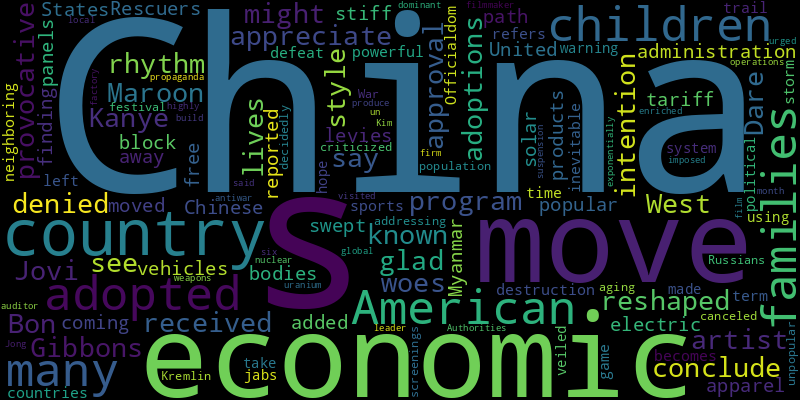
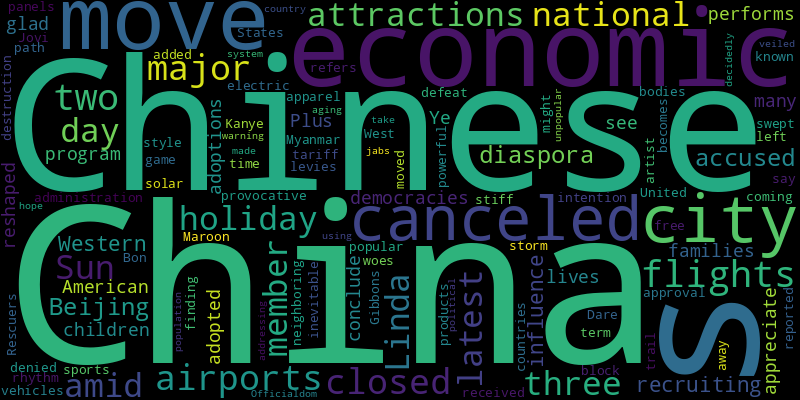
chore(bot): 🤖 auto commit

diff --git a/README.md b/README.md
@@ -2,32 +2,35 @@
 Auto RSS New York Times and Generate Word Cloud
 
 ## New York Times Global News
+* The visit by the adviser, Amos Hochstein, comes as cross-border clashes between Israel’s military and the powerful Lebanese militia have intensified.
+* Linda Sun is just the latest member of the Chinese diaspora whom Beijing is accused of recruiting to influence Western democracies.
+* The city canceled all flights at its two airports and closed major attractions, amid a three-day national holiday.
 * Hamas and the Houthis have opened offices in Baghdad, reflecting the two groups’ evolving relationship with Iraq as Tehran works to build a regional power bloc.
-* The United States and its allies are once again considering expanding the capabilities they provide to Ukraine in its fight against Russia’s invasion.
 * Europe’s public transit captains showed off their skills at an annual championship. “We have been practicing,” a Dutch competitor said. “But the other teams have also been practicing, too.”
+* Flooding caused by heavy rains has left more than 1,000 people dead and hundreds of thousands of homes destroyed.
 * The provocative artist once known as Kanye West has received approval that was denied to Maroon 5 and Bon Jovi. China’s economic woes might be why.
-* Derna is quickly being reconstructed after a flood that killed thousands. But questions linger about the process, and residents say new buildings cannot erase their trauma.
-* Soldiers and military analysts say that Ukraine is largely holding onto land it seized in the Kursk region, even as Moscow has begun a counterattack.
-* Tens of thousands cheered, clapped, danced and sang to celebrate French athletes and to relive, one last time, the Games that uplifted a nation.
-* A vote in Montreal is seen as a referendum on Canada’s prime minister, who has brushed aside calls to step down as party members fear a wipeout in the next general election.
-* Abbé Pierre campaigned for decades against homelessness and poverty. Revelations about his treatment of women have destroyed his image as a symbol of virtue in France.
-* Mickey, a homegrown food-packaging company, is famous for facing down Disney in Paraguay’s Supreme Court. As the family business turns 90, why is it still so popular?
+* An inquiry into the deaths of three Israeli hostages determined that they probably died as a result of a military airstrike targeting a Hamas commander.
+* Costa Rica’s lush rainforests, which blanket a quarter of the country, are being infiltrated by cartels on a quest to find new trafficking routes to evade the authorities.
+* Going forward, Mexican voters will now elect judges at every level, dramatically restructuring the third branch of government.
 
 ![Global](./global.png)
 ## New York Times United States News
-* Businesses needed workers, and Haitians, many already authorized to work, heard living costs were low. But the newcomers have strained resources, and that has fueled  tension.
-* Tension hangs over the city after a week of closings and lockdowns, and the strain of recent months has led some Haitian immigrants to consider moving to bigger cities.
-* Firefighters are making progress against the Bridge, Line and Airport fires to prevent more destruction, but for some, the damage is done.
+* Secret Service agents fired on a man who had a rifle and was hiding in bushes around a Trump golf club in Florida, officials said. Former President Donald J. Trump was unhurt.
+* Voters said the vice president talked about a sweeping vision to fix the country’s most stubborn problems. But they wanted the fine print.
+* A judge ruled that the State Constitution protected a woman’s right to abortion until the fetus was viable. The state’s attorney general said he would appeal.
 * Preliminary estimates said a 4.7-magnitude temblor was centered near Malibu. The authorities were determining whether there was any significant damage.
-* The claim that Aurora, Colo., has been overrun by gun-toting migrants stemmed from the city’s fight with a landlord. Now it is central to one of former President Donald J. Trump’s anti-immigrant campaign promises.
-* A Silicon Valley software engineer bought a modest one-bedroom condo in San Francisco once owned by the vice president. He rents it out.
-* An election skeptic challenged hundreds of voter registrations, including one for a voting rights activist. A county official is dealing with the mess.
-* Representative Gabe Vasquez, a Democrat in a border district, is under attack by his Republican opponent on immigration policy. Can a pro-abortion access message help him prevail?
-* The SpaceX capsule, whose crew was led by the billionaire Jared Isaacman, splashed down near the Gulf of Mexico early Sunday.
-* Behind the scenes, the chief justice molded three momentous Jan. 6 and election cases that helped determine the former president’s fate.
+* Mr. Jackson, alongside Michael and his other brothers, provided a soundtrack for a generation of young listeners in the 1970s.
+* With Vice President Kamala Harris at the top of the ticket and Senate seats open, Democrats could for the first time send two Black women to the chamber.
+* The deep-sea disaster killed all five people on board in 2023. The Coast Guard is set to hold its first public hearing on Monday to explore what led to the accident.
+* Investigations have singled out Pete Arredondo for the delayed police response to a 2022 school shooting in Texas. He is expected to appear in court for the first time on Monday.
+* As the idea of incorporating the Bible into classrooms gains traction, concerns about the mission of public schools — and differences across the faith — have led even some conservative Christians to push back.
+* Ryan Wesley Routh wanted to fly Afghan veterans to fight against Russia in Ukraine, an endeavor he seemed ill prepared to orchestrate.
 
 ![US](./usnews.png)
 ## New York Times Asia News
+* The city canceled all flights at its two airports and closed major attractions, amid a three-day national holiday.
+* Linda Sun is just the latest member of the Chinese diaspora whom Beijing is accused of recruiting to influence Western democracies.
+* Plus, Ye performs in China.
 * More than 80,000 children from China were adopted by American families. While many appreciate how the adoptions reshaped their own lives, they are also glad to see the program conclude.
 * The provocative artist once known as Kanye West has received approval that was denied to Maroon 5 and Bon Jovi. China’s economic woes might be why.
 * Gibbons move with rhythm and intention. Dare we say style?
@@ -35,8 +38,5 @@ Auto RSS New York Times and Generate Word Cloud
 * Rescuers in Myanmar reported finding bodies swept away by the powerful storm, which left a trail of destruction there and in neighboring countries.
 * The sports term refers to a time during a game when defeat becomes inevitable. Officialdom is warning against using it to take veiled jabs at the country’s political and economic system.
 * The move, made in the hope of addressing an aging population, was decidedly unpopular.
-* The festival canceled the screenings of “Russians at War,” which has been criticized as Kremlin propaganda. The filmmaker has said it is an antiwar film.
-* Authorities also imposed a six-month suspension on the local operations of the global firm, which was once a dominant auditor in China.
-* Its leader, Kim Jong-un, visited the factory and urged his country to produce more highly enriched uranium to build “exponentially” more nuclear weapons.
 
 ![Asian](./asian.png)

diff --git a/archive/2024-09-15.md b/archive/2024-09-15.md
@@ -1,0 +1,42 @@
+# NewsArchive
+Auto RSS New York Times and Generate Word Cloud
+
+## New York Times Global News
+* Hamas and the Houthis have opened offices in Baghdad, reflecting the two groups’ evolving relationship with Iraq as Tehran works to build a regional power bloc.
+* The United States and its allies are once again considering expanding the capabilities they provide to Ukraine in its fight against Russia’s invasion.
+* Europe’s public transit captains showed off their skills at an annual championship. “We have been practicing,” a Dutch competitor said. “But the other teams have also been practicing, too.”
+* The provocative artist once known as Kanye West has received approval that was denied to Maroon 5 and Bon Jovi. China’s economic woes might be why.
+* Derna is quickly being reconstructed after a flood that killed thousands. But questions linger about the process, and residents say new buildings cannot erase their trauma.
+* Soldiers and military analysts say that Ukraine is largely holding onto land it seized in the Kursk region, even as Moscow has begun a counterattack.
+* Tens of thousands cheered, clapped, danced and sang to celebrate French athletes and to relive, one last time, the Games that uplifted a nation.
+* A vote in Montreal is seen as a referendum on Canada’s prime minister, who has brushed aside calls to step down as party members fear a wipeout in the next general election.
+* Abbé Pierre campaigned for decades against homelessness and poverty. Revelations about his treatment of women have destroyed his image as a symbol of virtue in France.
+* Mickey, a homegrown food-packaging company, is famous for facing down Disney in Paraguay’s Supreme Court. As the family business turns 90, why is it still so popular?
+
+![Global](./global.png)
+## New York Times United States News
+* Businesses needed workers, and Haitians, many already authorized to work, heard living costs were low. But the newcomers have strained resources, and that has fueled  tension.
+* Tension hangs over the city after a week of closings and lockdowns, and the strain of recent months has led some Haitian immigrants to consider moving to bigger cities.
+* Firefighters are making progress against the Bridge, Line and Airport fires to prevent more destruction, but for some, the damage is done.
+* Preliminary estimates said a 4.7-magnitude temblor was centered near Malibu. The authorities were determining whether there was any significant damage.
+* The claim that Aurora, Colo., has been overrun by gun-toting migrants stemmed from the city’s fight with a landlord. Now it is central to one of former President Donald J. Trump’s anti-immigrant campaign promises.
+* A Silicon Valley software engineer bought a modest one-bedroom condo in San Francisco once owned by the vice president. He rents it out.
+* An election skeptic challenged hundreds of voter registrations, including one for a voting rights activist. A county official is dealing with the mess.
+* Representative Gabe Vasquez, a Democrat in a border district, is under attack by his Republican opponent on immigration policy. Can a pro-abortion access message help him prevail?
+* The SpaceX capsule, whose crew was led by the billionaire Jared Isaacman, splashed down near the Gulf of Mexico early Sunday.
+* Behind the scenes, the chief justice molded three momentous Jan. 6 and election cases that helped determine the former president’s fate.
+
+![US](./usnews.png)
+## New York Times Asia News
+* More than 80,000 children from China were adopted by American families. While many appreciate how the adoptions reshaped their own lives, they are also glad to see the program conclude.
+* The provocative artist once known as Kanye West has received approval that was denied to Maroon 5 and Bon Jovi. China’s economic woes might be why.
+* Gibbons move with rhythm and intention. Dare we say style?
+* The administration moved to block off a popular tariff-free path for Chinese apparel coming into the United States, and added stiff levies on electric vehicles, solar panels and other products.
+* Rescuers in Myanmar reported finding bodies swept away by the powerful storm, which left a trail of destruction there and in neighboring countries.
+* The sports term refers to a time during a game when defeat becomes inevitable. Officialdom is warning against using it to take veiled jabs at the country’s political and economic system.
+* The move, made in the hope of addressing an aging population, was decidedly unpopular.
+* The festival canceled the screenings of “Russians at War,” which has been criticized as Kremlin propaganda. The filmmaker has said it is an antiwar film.
+* Authorities also imposed a six-month suspension on the local operations of the global firm, which was once a dominant auditor in China.
+* Its leader, Kim Jong-un, visited the factory and urged his country to produce more highly enriched uranium to build “exponentially” more nuclear weapons.
+
+![Asian](./asian.png)
